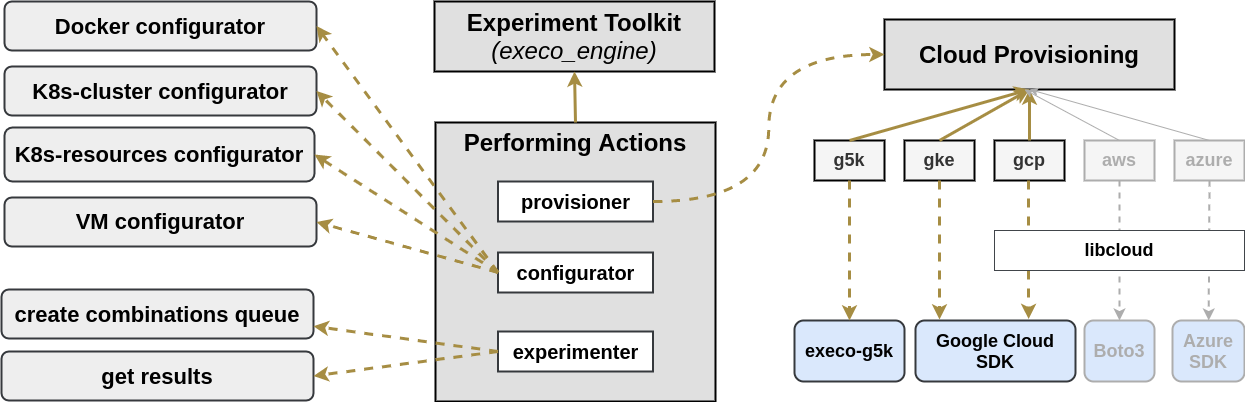
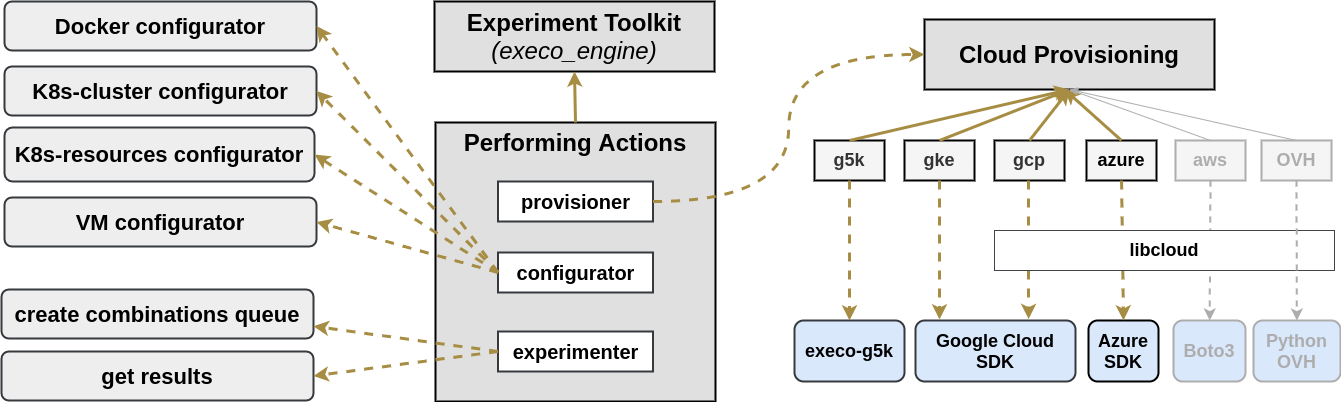
doc: add tutorial for Azure provisioner

diff --git a/docs/azure_setting.md b/docs/azure_setting.md
@@ -1,0 +1,133 @@
+# Working on MS Azure Cloud
+This tutorial helps you to setup the authentication to connect to Azure cloud from your laptop so that you can use `cloudal` to provision machines and perform the experiments.
+
+If you do not have an Azure account yet, you should create an [Azure free account](https://azure.microsoft.com/en-us/free/) before begin.
+
+# How to authenticate with Azure?
+
+To setup an authentication, you have to provide the following information:
+1. The subscription ID
+2. The tenant ID
+3. The application ID 
+4. The client secret key
+
+If you already set up and had these information, just provide it in a system config file and run the  `cloudal` examples. Otherwise, please follow the instruction below about what are they and how to get them. For each information, you can create and retrieve it from Azure portal or use Azure CLI. For Azure CLI, I prefer to use [Azure Cloud Shell](https://docs.microsoft.com/en-us/azure/cloud-shell/overview#:~:text=Azure%20Cloud%20Shell%20is%20an,work%2C%20either%20Bash%20or%20PowerShell.) so that all the requirements have already been installed for you.
+
+
+## 1. Get the subscription ID:
+
+The subscription ID is a [GUID](https://www.guidgenerator.com/) that uniquely identifies the agreements with Microsoft to use Azure cloud services. Every resource is associated with a subscription.
+
+To get your subscription ID, log in to the Azure portal. Go to `Subscriptions`. The list of your subscriptions is displayed along with the subscription ID. 
+
+Or using the following command to list all account information:
+
+```bash
+az account list --output table --all
+```
+
+## 2. Get the tenant ID:
+
+A Tenant is representative of an organization within Azure Active Directory (Azure AD). It is a dedicated instance of the Azure AD service. An Azure AD tenant is required for defining an application and for assigning permissions so the application can make use of other Azure services' REST APIs.[1](https://docs.bmc.com/docs/cloudlifecyclemanagement/46/setting-up-a-tenant-id-client-id-and-client-secret-for-azure-resource-manager-provisioning-669202145.html)
+
+Normally, when you have an Azure account, you also have an tenant ID, you can find your tenant information in the `Azure AD` on the Azure portal.
+
+Or using the command:
+```bash
+az account show
+```
+
+If you do not have an Azure tenant, you can create a new one in Azure Active Directory by following the instruction [here](https://docs.microsoft.com/en-us/azure/active-directory/fundamentals/active-directory-access-create-new-tenant)
+
+
+## 3. Get an application ID
+
+If you already had an application, go straight to [Step 4](#step-4:-retrieve-the-application-id) to retrieve the information. If not, you have to register one.
+
+### Step 1: Check permission
+First you must have sufficient permissions to register an application with your Azure AD tenant, and assign a role to the application with your Azure subscription. Follow the guidance at [Permissions required for registering an app](https://docs.microsoft.com/en-us/azure/active-directory/develop/howto-create-service-principal-portal#permissions-required-for-registering-an-app) to check and modify the permission of your tenant.
+
+
+### Step 2: Register an application with Azure AD and create a service principal
+[Azure Active Directory](https://docs.microsoft.com/en-us/azure/active-directory/fundamentals/active-directory-whatis) is Microsoft’s cloud-based identity and access management service, which helps you sign in and access resources on Azure. You need to register an application with an Azure AD tenant to create an identity configuration that allows it to integrate with Azure AD.
+
+When you have softwares, hosted services, or automated tools that need to access or modify resources, you can create an identity for them. This identity is known as a service principal. Access to resources is restricted by the roles assigned to the service principal, giving you control over which resources can be accessed and at which level. For security reasons, it is always recommended to use service principals with automated tools rather than allowing them to log in with a user identity. [[2]](https://docs.microsoft.com/en-us/azure/active-directory/develop/howto-create-service-principal-portal#required-permissions)
+
+
+The application object is the global representation of your software/services for use across all tenants, and the service principal is the local representation for use in a specific tenant. [[3]](https://docs.microsoft.com/en-us/azure/active-directory/develop/app-objects-and-service-principals#service-principal-object)
+
+You can follow the guide at [Registering an application](https://docs.microsoft.com/en-us/azure/active-directory/develop/howto-create-service-principal-portal#register-an-application-with-azure-ad-and-create-a-service-principal) to make an application registration and create a service principal on Azure portal.
+
+or using Azure CLI,
+
+to register an application:
+```bash
+az ad app create --display-name "application name" --identifier-uris "application uri" --password "your password"
+```
+
+to create a Service Principal:
+```bash
+az ad sp create --id "Application ID"
+```
+
+### Step 3: Assign a role to the application
+
+To access resources in your subscription, you must assign a role to the application. Decide which role offers the right permissions for the application. To learn about the available roles, see [Azure built-in roles](https://docs.microsoft.com/en-us/azure/role-based-access-control/built-in-roles)
+
+To do it via portal, follow [Assign a role to the application](https://docs.microsoft.com/en-us/azure/active-directory/develop/howto-create-service-principal-portal#assign-a-role-to-the-application)
+
+
+or using Azure CLI:
+
+Follow [View the service principal of a managed identity in the Azure portal](https://docs.microsoft.com/en-us/azure/active-directory/managed-identities-azure-resources/how-to-view-managed-identity-service-principal-portal) to get the `Principal ID` (objectID) and change the role of that Service Principle to be an `owner`:
+
+```bash
+az role assignment create --assignee "Principal ID" --role Owner --scope /subscriptions/<subscription_id>
+```
+
+### Step 4: Retrieve the application ID
+
+Once your service principal is set up, you can start using it to sign in programmatically in other to run your scripts or apps. To manage your service principal (permissions, user consented permissions, see which users have consented, review permissions, see sign in information, and more), go to `Azure Active Directory`, then select `Enterprise applications`.
+
+To get the Application ID, go to `Azure Active Directory`, select `App registrations` in Azure AD, select your application, then you get the information of Application (client) ID, Directory (tenant) ID, Object ID (or Service Principal ID).
+
+
+## 4. Get a client secret key
+
+Azure supports 2 ways of authentication for service principals: password-based authentication (application secret) and certificate-based authentication. `libcloud` currently uses application secrets so we need to setup one.
+
+Follow [Create a new application secret](https://docs.microsoft.com/en-us/azure/active-directory/develop/howto-create-service-principal-portal#option-2-create-a-new-application-secret) to create a secret key on Azure portal.
+
+
+## 5. Create some resources to use service on Azure
+On Azure, to create a VM, you have to create the following resource on each region to manage VMS.
+
+### Create the resource group
+A [resource group](https://docs.microsoft.com/en-us/azure/azure-resource-manager/management/overview#understand-scope) is a container that holds related resources for an Azure solution. All the resources in a resource group should share the same lifecycle. You deploy, update, and delete them together. 
+
+You can follow [Create resource groups](https://docs.microsoft.com/en-us/azure/azure-resource-manager/management/manage-resource-groups-portal#create-resource-groups) to create your resource group.
+
+or using Azure Command line:
+```bash
+az group create -l <location-region> -n <name_of_resource_group>
+```
+
+### Create a virtual network
+
+```bash
+az network vnet create --name <name_of_virtual_network> --resource-group <name_of_resource_group> --subnet-name default
+```
+
+### Create a storage account using the same resource group
+
+```bash
+az storage account create --name <name_of_your_storage_account> --resource-group <name_of_resource_group>
+```
+# How to connect to your VM after creating them?
+There are many ways to connect to an Azure VM as following:
+
+1. [Assign a public IP](https://docs.microsoft.com/en-us/azure/virtual-network/associate-public-ip-address-vm) to the VM. This is not recommended and only should be used for testing.
+
+2. Using [Point-to-Site connection](https://docs.microsoft.com/en-us/azure/vpn-gateway/vpn-gateway-howto-point-to-site-classic-azure-portal?fbclid=IwAR3hEXrKoTeGBZ1JakcqBaAc93Epf7AyqGHAqPWjOfTsIZlqU-6mzx4zjxY) service to connect to VMs via private IPs.
+
+3. Deploy your own VPN service to connect to VMs via private IPs (to be planned to support by `cloudal` )

diff --git a/README.md b/README.md
@@ -22,7 +22,7 @@
 
 It is a module that helps to design and perform experiments on different cloud systems. 
 
-You can use `cloudal` to provision your infrastructure on a specific cloud system by simply describing your requirements in a yaml file. Other than that, by calling our ready-to-use modules you can easily install and configure some software or services on provisioned hosts. After setting the environment, you can use experimenter module to perform a full workflow of experiment automatically from creating and controlling each run to handling the results.
+You can use `cloudal` to provision your infrastructure on a specific cloud system by simply describing your requirements in a yaml file. Other than that, by calling our ready-to-use configurators you can easily install and configure some software or services on provisioned hosts. After setting the environment, you can use experimenter module to perform a full workflow of experiment automatically from creating and controlling each run to handling the results.
 
 Read the [doc](https://github.com/ntlinh16/cloudal/blob/master/docs/technical_detail.md) for more technical detail.
 
@@ -112,6 +112,7 @@ To working on specific cloudal systems, you need more installation. Please find 
 - [Working with Kubernetes on G5K](https://github.com/ntlinh16/cloudal/blob/master/docs/g5k_k8s_setting.md)
 - [Working on Google Cloud Platform (GCP)](https://github.com/ntlinh16/cloudal/blob/master/docs/gcp_setting.md)
 - [Working with Google Kubernetes Engine (GKE)](https://github.com/ntlinh16/cloudal/blob/master/docs/gke_setting.md)
+- [Working on Azure](https://github.com/ntlinh16/cloudal/blob/master/docs/azure_setting.md)
 
 # Tutorials
 
@@ -123,6 +124,7 @@ I provide here some quick tutorials on how to perform an action with _cloudal_.
 - [Provisioning on GCP: reserving some hosts](https://github.com/ntlinh16/cloudal/tree/master/examples/provision#example-4-provisioning-some-hosts-on-google-cloud-platform-gcp)
 - [Provisioning on GCP: creating a Docker Swarm cluster](https://github.com/ntlinh16/cloudal/tree/master/examples/provision#example-5-provisioning-docker-swarm-cluster-on-google-cloud-platform-gcp)
 - [Provisioning on GKE: reserving Kubernetes clusters](https://github.com/ntlinh16/cloudal/tree/master/examples/provision#example-6-provisioning-kubernetes-clusters-on-google-cloud-engine-gke)
+- [Provisioning on Azure: reserving some hosts](https://github.com/ntlinh16/cloudal/tree/master/examples/provision#example-7-provisioning-some-hosts-on-microsoft-azure)
 
 ### Configuring
 - [Configuring Docker on all reserved hosts](https://github.com/ntlinh16/cloudal/tree/master/examples/configuration#example-1-configuring-docker-on-running-hosts-on-grid5000-g5k)

diff --git a/docs/g5k_setting.md b/docs/g5k_setting.md
@@ -1,13 +1,13 @@
 # Working on Grid5000 
 
-This tutorial shows you how to set up the connection to [Grid5000](https://www.grid5000.fr/w/Grid5000:Home) system from your laptop, then provision machines, install applications and conduct experiments on the reserved machines.
+This tutorial shows you how to set up the connection to [Grid5000](https://www.grid5000.fr/w/Grid5000:Home) system from your laptop.
 
 If you do not have a Grid5000 account, check out the [Grid5000:Get an account](https://www.grid5000.fr/w/Grid5000:Get_an_account)
 
 ## Set up to access nodes from outside Grid5000
 To interact with Grid5000 system from your laptop (not from a Grid5000 frontend node), you have to perform the following steps:
 
-##### 1. Set up an alias for the access to any hosts inside Grid5000. 
+#### 1. Set up an alias for the access to any hosts inside Grid5000. 
 
 In `~/.ssh/config`, put these lines:
 ```
@@ -23,7 +23,7 @@ Host *.g5k
 ```
 
 
-##### 2. Set up `~/.execo.conf.py` configuration file 
+#### 2. Set up `~/.execo.conf.py` configuration file 
 
 ```
 import re
@@ -54,7 +54,7 @@ These above configurations follow the instruction of:
 - [Using SSH ProxyCommand to access hosts inside Grid5000](https://www.grid5000.fr/w/SSH#Using_SSH_ProxyCommand_feature_to_ease_the_access_to_hosts_inside_Grid.275000)
 
 
-##### 3. Set up Grid5000 API authentication 
+#### 3. Set up Grid5000 API authentication 
 
 When you use cloudal for the first time with Grid5000, it asks your Grid5000 account password in your terminal:
 ```

diff --git a/examples/provision/README.md b/examples/provision/README.md
@@ -87,6 +87,20 @@ The `provision_gke.py` script checks if the required clusters existed or not. If
 
 With GKE, all the provisioned clusters are kept alive until you deleted it, so that remember to delete your provision to release the resources (and not losing money) after finishing your testing.
 
+## Example 7: Provisioning some hosts on Microsoft Azure
+In this example, we provision some hosts on Azure.
+
+First, edit the parameters in the provisioning config file `provisioning_config_azure.yaml` with your authentication information and your infrastructure requirements.
+
+Then, run the following command to perform the provisioning process on Azure:
+```
+cd cloudal/examples/provision/
+python provision_azure.py --system_config_file cloudal/examples/provisioning_config_files/provisioning_config_azure.yaml
+```
+
+The `provision_azure.py` script makes a reservation with the description in `provisioning_config_azure.yaml` file : 1 host on region _eastus_ with the type of host is Standard_A4_v2;1 Standard_F2s_v2 host and 1 Standard_A4_v2 hosts on _westeurope_.
+
+With azure, all the provisioned hosts are kept alive until you deleted it, so that remember to delete your hosts to release the resources (and not losing money) after finishing your testing.
 
 ## Options
 You might want to use `--help` to see more supported options:

diff --git a/docs/gke_setting.md b/docs/gke_setting.md
@@ -1,6 +1,6 @@
 # Working with Google Kubernetes Engine
 
-This tutorial helps you to setup the authentication to connect to [Google Kubernetes Engine (GKE)](https://cloud.google.com/kubernetes-engine) and then shows some examples to create clusters and then perform some actions on these clusters.
+This tutorial helps you to setup the authentication to connect to [Google Kubernetes Engine (GKE)](https://cloud.google.com/kubernetes-engine) to provision Kubernetes clusters and perform some actions on these clusters.
 
 If you do not have a GCP account, you can create one [free trial account](https://cloud.google.com/gcp/?utm_source=google&utm_medium=cpc&utm_campaign=emea-fr-all-en-dr-bkws-all-all-trial-e-gcp-1009139&utm_content=text-ad-none-any-DEV_c-CRE_167380635539-ADGP_Hybrid+%7C+AW+SEM+%7C+BKWS+~+EXA_M:1_FR_EN_General_Cloud_google+cloud+free+trial-KWID_43700053280219975-kwd-112926782887-userloc_1006410&utm_term=KW_google%20cloud%20free%20trial-NET_g-PLAC_&ds_rl=1242853&ds_rl=1245734&ds_rl=1242853&ds_rl=1245734&gclid=EAIaIQobChMI6JjWkffb6wIVeRkGAB3ajQbQEAAYASAAEgISbvD_BwE) to work with.
 

diff --git a/docs/gcp_setting.md b/docs/gcp_setting.md
@@ -1,6 +1,6 @@
 # Working on Google Cloud Platform
 
-This tutorial helps you to setup the authentication to connect to [Google Cloud Platform (GCP)](https://cloud.google.com) and then shows some examples to provision machines and then perform some actions on the reserved machines.
+This tutorial helps you to setup the authentication to connect to [Google Cloud Platform (GCP)](https://cloud.google.com) to provision machines and perform the experiments.
 
 If you do not have a GCP account, you can create one [free trial account](https://cloud.google.com/gcp/?utm_source=google&utm_medium=cpc&utm_campaign=emea-fr-all-en-dr-bkws-all-all-trial-e-gcp-1009139&utm_content=text-ad-none-any-DEV_c-CRE_167380635539-ADGP_Hybrid+%7C+AW+SEM+%7C+BKWS+~+EXA_M:1_FR_EN_General_Cloud_google+cloud+free+trial-KWID_43700053280219975-kwd-112926782887-userloc_1006410&utm_term=KW_google%20cloud%20free%20trial-NET_g-PLAC_&ds_rl=1242853&ds_rl=1245734&ds_rl=1242853&ds_rl=1245734&gclid=EAIaIQobChMI6JjWkffb6wIVeRkGAB3ajQbQEAAYASAAEgISbvD_BwE) to work with.
 

diff --git a/docs/g5k_k8s_setting.md b/docs/g5k_k8s_setting.md
@@ -1,6 +1,6 @@
 # Working with Kubernetes on Grid5000
 
-This tutorial helps you to setup the authentication to connect to Grid5000 to deploy Kubernetes and then shows some examples to create Kubernetes clusters and then perform some actions on these clusters.
+This tutorial helps you to setup the authentication to connect to [Grid5000](https://www.grid5000.fr/w/Grid5000:Home) to deploy Kubernetes clusters.
 
 ## Installation
 
